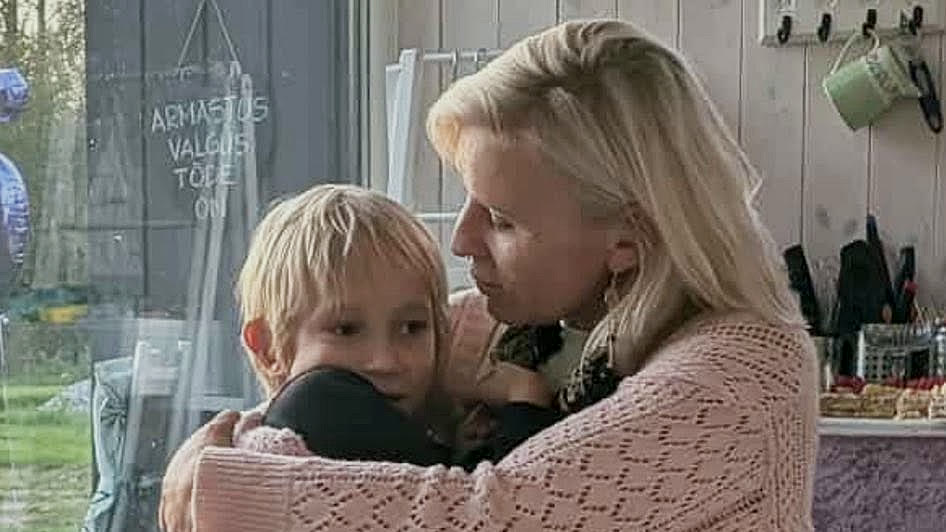
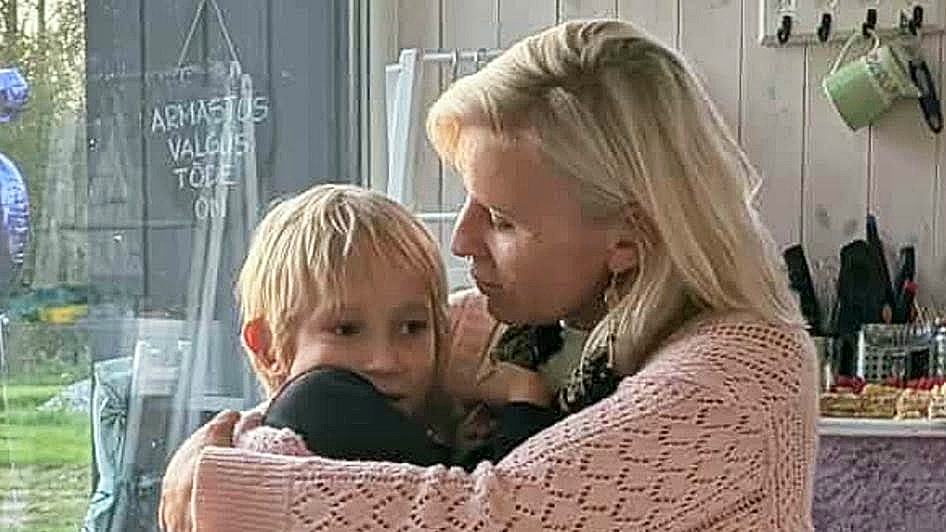
Kompass: Armastuse photo sharper + brighter

diff --git a/index.html b/index.html
@@ -561,7 +561,7 @@
     $("r-mc-sub").textContent = (st.sex === "naine" ? SUB_W[main] : SUB_M[main]) || head[1];
     $("r-mc-list").innerHTML = ((st.sex === "naine" && OFFER_W[main]) || OFFER[main] || []).map(([b, t]) => `<li style="margin:0 0 8px;font-size:14.5px;line-height:1.45">✓ <b>${b}</b>${t}</li>`).join("");
     $("r-course-btn").href = payOf(main) || "#";
-    const IMGV = "0528";   // bump when a photo is swapped (beats browser + CDN cache)
+    const IMGV = "0532";   // bump when a photo is swapped (beats browser + CDN cache)
     const bg = `assets/bg/${main}-${st.sex === "naine" ? "n" : "m"}.jpg?v=${IMGV}`;
     const NO_IMG = [];   // new photos coming 29.10; hide banner until then
     $("r-mc-img").src = bg; $("r-mc-img").style.display = NO_IMG.includes(`${main}-${st.sex === "naine" ? "n" : "m"}`) ? "none" : "";
